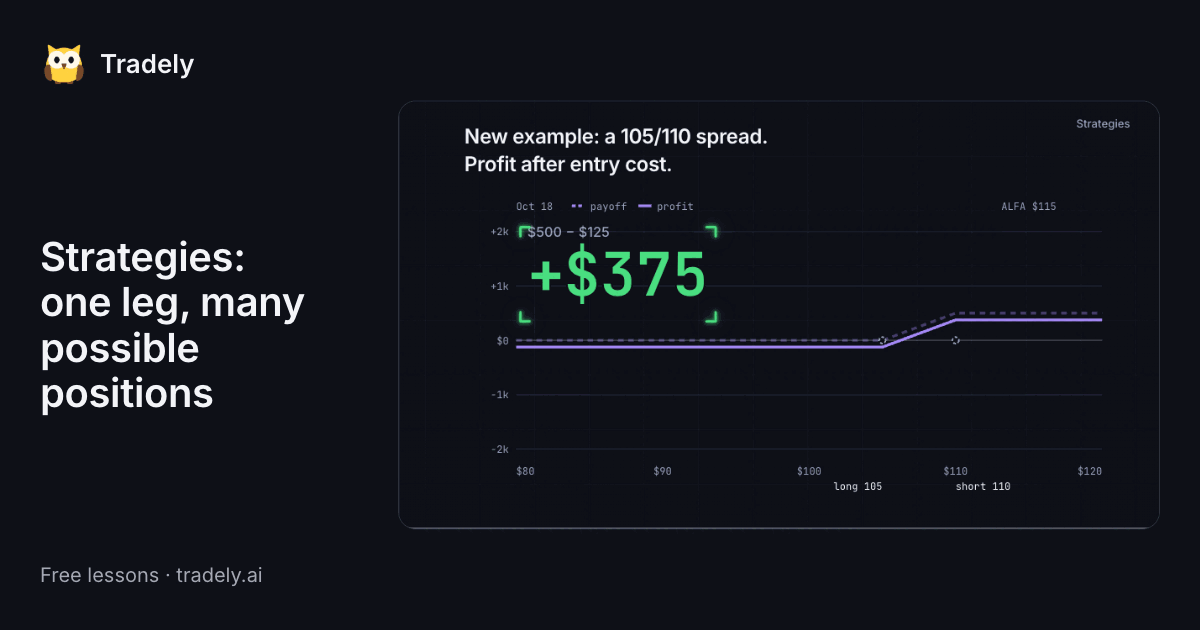
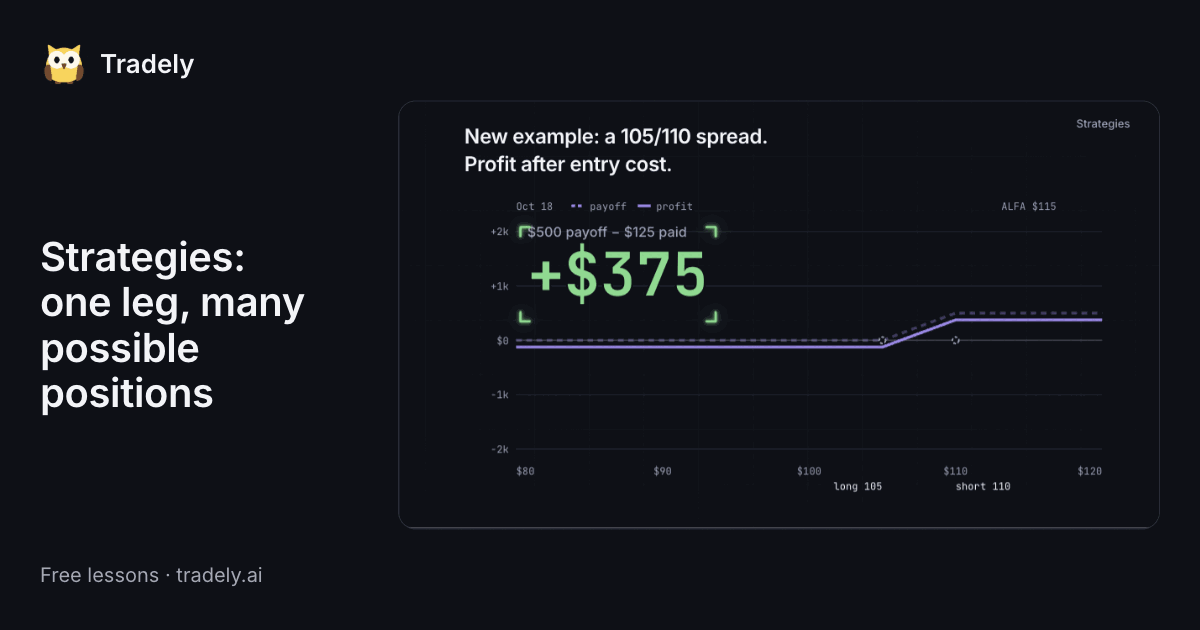
fix(learning): strategies film labels the hero's subtraction and thins the phone chart
"$500 − $125" becomes "$500 payoff − $125 paid", lifted clear of the brackets on the phone. The phone chart drops the two leg labels beside the lines; the ones under the axis stay. The share card shows the labelled subtraction.

From the re-score of 2026-11-15: each change answers a finding that two or three of three juries shared. No existing step of the timeline moved unless said above.

diff --git a/apps/web/src/features/learning/lessons/option-strategies-film.tsx b/apps/web/src/features/learning/lessons/option-strategies-film.tsx
@@ -90,6 +90,13 @@ function layout(width: number) {
 		resultX: left + (narrow ? 78 : 110),
 		resultY: top + readoutSize * 5.5,
 		resultSize: frame.type.num * 1.8,
+		costX: (expressionWidth: number, spotWidth: number) =>
+			narrow
+				? Math.max(margin + 12, right - spotWidth - 6 - expressionWidth)
+				: left + 12,
+		costY: narrow
+			? top + readoutSize * 5.5 - frame.type.num * 1.8 * 1.5 - 6
+			: top + readoutSize * 1.2,
 		x: (spot: number) =>
 			left + ((spot - RANGE[0]) / (RANGE[1] - RANGE[0])) * (right - left),
 		y: (dollars: number) =>
@@ -138,8 +145,8 @@ const copy = {
 	readoutTotal: ["total", "合计"],
 	together: ["payoff", "到期价值"],
 	lessCost: [
-		`${dollars(spreadPayoff(SPOT))} − ${dollars(NET)}`,
-		`${dollars(spreadPayoff(SPOT))} − ${dollars(NET)}`,
+		`${dollars(spreadPayoff(SPOT))} payoff − ${dollars(NET)} paid`,
+		`到期价值 ${dollars(spreadPayoff(SPOT))} − 成本 ${dollars(NET)}`,
 	],
 	spot: [`ALFA $${SPOT}`, `ALFA $${SPOT}`],
 	rHead: ["Sell October, buy November.", "卖出十月，买入十一月。"],
@@ -202,6 +209,10 @@ function Scene({
 		/>
 	);
 	const text = T.body;
+	const costX = L.costX(
+		textWidth(t(copy.lessCost), text),
+		textWidth(t(copy.spot), text),
+	);
 	/** The second line of a roll's row: a phone sets it at body size. */
 	const rowSub = narrow ? T.body : T.small * 1.1;
 	const tick = { fontSize: L.tick };
@@ -512,24 +523,26 @@ function Scene({
 							22,
 							"end",
 						)}
-						{tag(
-							"g-long",
-							narrow ? SPOT - 2 : RANGE[1],
-							longLeg,
-							copy.long105,
-							"wt-halo",
-							-T.small * 1.2,
-							"end",
-						)}
-						{tag(
-							"g-short",
-							narrow ? SPOT - 2 : RANGE[1],
-							shortLeg110,
-							copy.short110,
-							"wt-halo",
-							T.small * 1.8,
-							"end",
-						)}
+						{!narrow &&
+							tag(
+								"g-long",
+								RANGE[1],
+								longLeg,
+								copy.long105,
+								"wt-halo",
+								-T.small * 1.2,
+								"end",
+							)}
+						{!narrow &&
+							tag(
+								"g-short",
+								RANGE[1],
+								shortLeg110,
+								copy.short110,
+								"wt-halo",
+								T.small * 1.8,
+								"end",
+							)}
 						<Word
 							name="g-spread"
 							x={L.left}
@@ -629,8 +642,8 @@ function Scene({
 
 			<Word
 				name="cost"
-				x={L.left + 12}
-				y={L.top + text * 1.2}
+				x={costX}
+				y={L.costY}
 				size={text}
 				anchor="start"
 				className="wt-film-type wt-film-dim"
@@ -912,19 +925,37 @@ function build(context: FilmContext) {
 	show([one("k-105"), one("k-110")], 21.45);
 	draw(line("long"), 23.2);
 	show(readouts[0], 23.7, "right");
-	tl.fromTo(one("g-long"), { opacity: 0 }, { opacity: 1, duration: 0.5 }, 23.7);
+	if (!L.narrow) {
+		tl.fromTo(
+			one("g-long"),
+			{ opacity: 0 },
+			{ opacity: 1, duration: 0.5 },
+			23.7,
+		);
+	}
 	// Each completed readout gets a full second before the next construction.
-	tl.to([line("long"), one("g-long")], { opacity: 0.3, duration: 0.4 }, 25.2);
+	tl.to(
+		[line("long"), ...(!L.narrow ? [one("g-long")] : [])],
+		{ opacity: 0.3, duration: 0.4 },
+		25.2,
+	);
 	draw(line("short"), 25.2);
 	show(readouts[1], 25.7, "right");
-	tl.fromTo(
-		one("g-short"),
-		{ opacity: 0 },
-		{ opacity: 1, duration: 0.5 },
-		25.7,
-	);
+	if (!L.narrow) {
+		tl.fromTo(
+			one("g-short"),
+			{ opacity: 0 },
+			{ opacity: 1, duration: 0.5 },
+			25.7,
+		);
+	}
 	tl.to(
-		[line("long"), one("g-long"), line("short"), one("g-short")],
+		[
+			line("long"),
+			...(!L.narrow ? [one("g-long")] : []),
+			line("short"),
+			...(!L.narrow ? [one("g-short")] : []),
+		],
 		{ opacity: 0.3, duration: 0.4 },
 		27.2,
 	);
@@ -935,9 +966,9 @@ function build(context: FilmContext) {
 	hide(
 		[
 			line("long"),
-			one("g-long"),
+			...(!L.narrow ? [one("g-long")] : []),
 			line("short"),
-			one("g-short"),
+			...(!L.narrow ? [one("g-short")] : []),
 			one("spot-guide"),
 		],
 		29.3,
